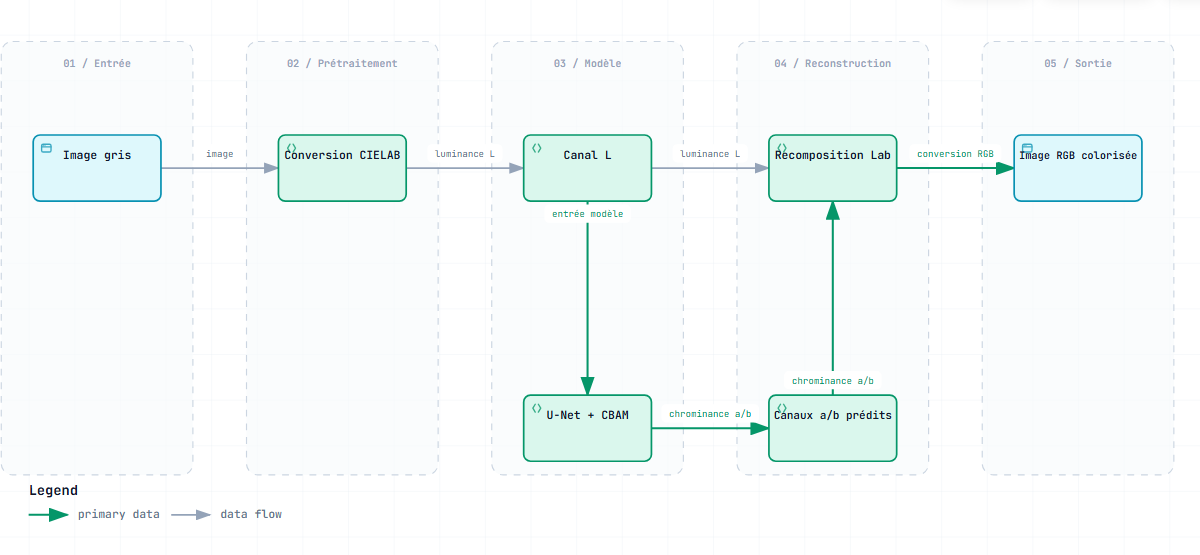
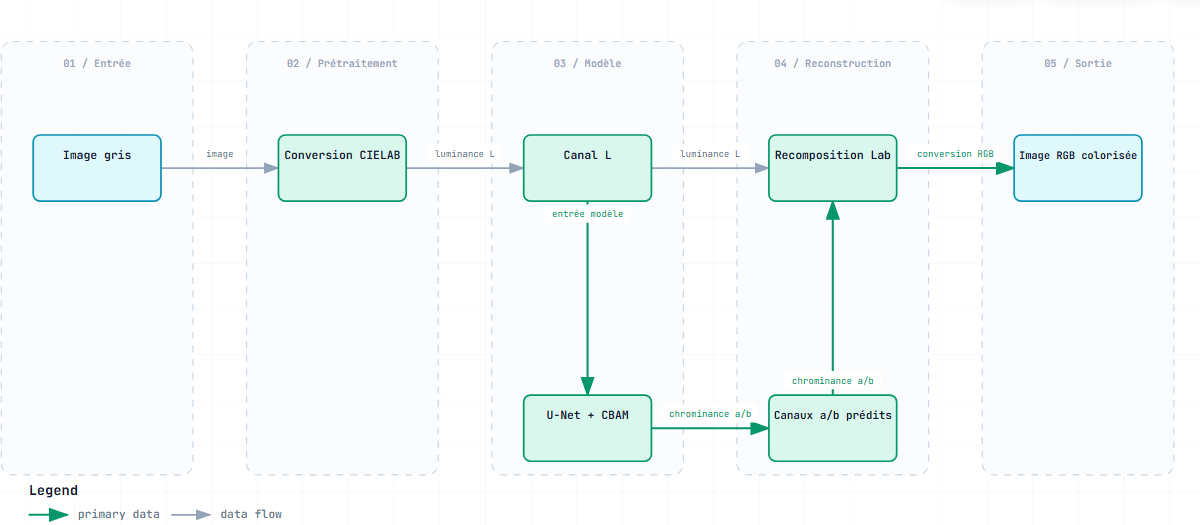
fix: clarify architecture diagram labels

diff --git a/docs/assets/architecture.html b/docs/assets/architecture.html
@@ -4088,6 +4088,7 @@ OTHER DEALINGS IN THE FONT SOFTWARE.
        pack and not viewer controls. Prefix selectors with svg so the canonical
        export's SVG-only stylesheet collector keeps them automatically. */
     svg .semantic-sigil {
+      display: none;
       fill: none;
       stroke: currentColor;
       stroke-width: 1.35;
